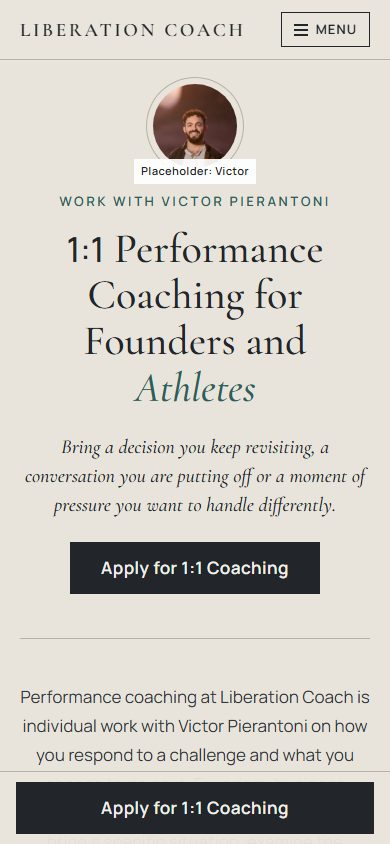
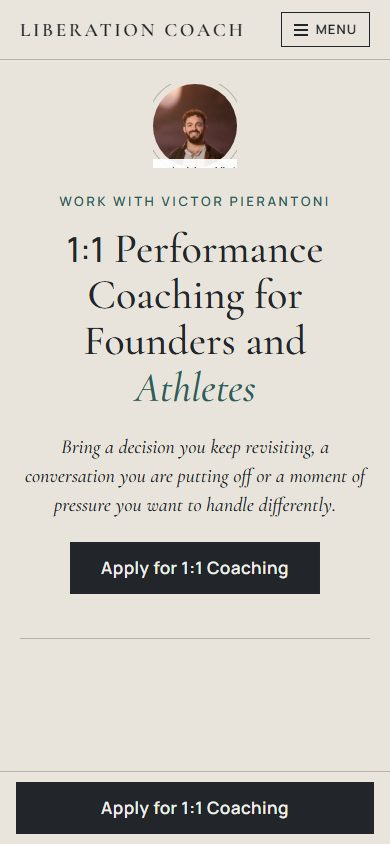
Add scroll-in animations, one motion style per option
- Option 1: photos wipe in, text eases up, rules draw
- Option 2: slow fades, portraits settle, timeline line draws, arch rises
- Option 3: quick slides from the sides, cards pop in sequence
- Hover touches (photo zoom, color on hover), header shadow on scroll
- Content shows without JavaScript, with reduced motion, and after 1.5s
  if the scroll observer never fires

Changed region(s): [[0.0308, 0.8009, 0.9538, 0.9242], [0.3385, 0.1848, 0.6769, 0.2156]]

diff --git a/option-2/index.html b/option-2/index.html
@@ -117,8 +117,20 @@ footer nav{display:flex;justify-content:center;flex-wrap:wrap;gap:12px 26px;marg
  .mbar{display:block;position:fixed;left:0;right:0;bottom:0;z-index:9;background:rgba(232,228,220,.97);border-top:1px solid var(--rule);padding:10px 16px}
  .mbar .btn{display:block;text-align:center}body{padding-bottom:76px}
 }
-@media (prefers-reduced-motion:reduce){*{transition:none!important;scroll-behavior:auto!important}}
-</style></head><body>
+/* motion: scroll reveals (only when JS runs; off for reduced motion) */
+body{overflow-x:clip}
+header{transition:box-shadow .3s}header.scrolled{box-shadow:0 8px 24px rgba(0,0,0,.10)}
+.js .rv{opacity:0;transform:translateY(var(--ty,26px));transition:opacity var(--dur,.8s) var(--ease,cubic-bezier(.2,.7,.2,1)),transform var(--dur,.8s) var(--ease,cubic-bezier(.2,.7,.2,1)),clip-path var(--dur,.8s) var(--ease,cubic-bezier(.2,.7,.2,1));transition-delay:var(--d,0s)}
+.js .rv-l{transform:translateX(-40px)}.js .rv-r{transform:translateX(40px)}
+.js .rv-zoom{transform:scale(.9)}.js .rv-line{transform:scaleX(0);transform-origin:left center}
+.js .rv-wipe{transform:none}.js .rv-wipe>img{clip-path:inset(0 100% 0 0);transition:clip-path 1.1s cubic-bezier(.65,0,.25,1) var(--d,0s)}.js .rv-wipe.on>img{clip-path:inset(0 0 0 0)}
+.js .rv.on{opacity:1;transform:none;clip-path:inset(0 0 0 0)}
+@media (max-width:860px){.js .rv-l,.js .rv-r{transform:translateY(22px)}}
+.js .timeline:before{transform:scaleX(0);transform-origin:left center;transition:transform 1.4s cubic-bezier(.2,.7,.2,1) .2s}.js .timeline.on:before{transform:none}
+.row img{transition:filter .8s}.row:hover img{filter:none}
+.final .in{--ty:60px}
+@media (prefers-reduced-motion:reduce){*{transition:none!important;scroll-behavior:auto!important}.js .rv{opacity:1!important;transform:none!important;clip-path:none!important}.js .rv-wipe>img{clip-path:none!important}.js .timeline:before{transform:none!important}.js .route img,.js .row img{transform:none!important}}
+</style><script>document.documentElement.className+=" js"</script></head><body>
 <a class="skip" href="#main">Skip to content</a>
 <header id="top">
  <div class="hd"><a class="mark" href="#" data-planned-page title="Page not designed yet">Liberation Coach</a>
@@ -181,7 +193,7 @@ footer nav{display:flex;justify-content:center;flex-wrap:wrap;gap:12px 26px;marg
 <section class="begin">
  <h2>A Conversation Is the Next Step</h2>
  <figure class="ph-wrap"><span class="phl">Placeholder stock photo</span><img class="toned" src="../assets/stock/video-call.jpg" alt="Man on a video call at his laptop" loading="lazy"></figure>
- <ol class="timeline">
+ <ol class="timeline rv-tl">
   <li><h3>Apply</h3><p>Describe what you would like to work on.</p></li>
   <li><h3>Meet Victor on Zoom</h3><p>The next step is a discovery call with Victor to explore fit. There is no obligation to proceed with coaching.</p></li>
   <li><h3>Decide Whether to Work Together</h3><p>If you choose to begin coaching, sessions take place online and coaching members receive Circle access.</p></li>
@@ -214,5 +226,13 @@ footer nav{display:flex;justify-content:center;flex-wrap:wrap;gap:12px 26px;marg
 b.addEventListener('click',function(){var o=h.classList.toggle('open');b.setAttribute('aria-expanded',o);b.setAttribute('aria-label',o?'Close menu':'Open menu')});
 h.querySelectorAll('.mobile-nav a').forEach(function(a){a.addEventListener('click',function(){h.classList.remove('open');b.setAttribute('aria-expanded','false')})});
 document.addEventListener('keydown',function(e){if(e.key==='Escape'&&h.classList.contains('open')){h.classList.remove('open');b.setAttribute('aria-expanded','false');b.focus()}})})();
+(function(){var cfg=[[".hero .portrait", "rv-zoom", 0, 0], [".hero > :not(.portrait)", "", 0.15, 0.14], [".intro p", "", 0, 0.15], [".row .ph-wrap", "", 0, 0], [".row > div", "", 0.2, 0], [".work > div", "rv-l", 0.1, 0], [".work .ph-wrap", "", 0, 0], [".meet .portrait", "rv-zoom", 0, 0], [".meet .in > :not(.portrait)", "", 0.1, 0.1], [".emo .card", "", 0, 0], [".begin h2", "", 0, 0], [".begin .ph-wrap", "", 0.1, 0], [".timeline li", "", 0.3, 0.25], [".begin > .qbtn", "", 0.6, 0], [".qa > div", "", 0, 0.15], [".answers .after", "", 0.3, 0], [".final .in", "", 0, 0]];var all=[];
+cfg.forEach(function(c){var els=document.querySelectorAll(c[0]);for(var i=0;i<els.length;i++){var e=els[i];e.className+=' rv '+c[1];e.style.setProperty('--d',((c[2]||0)+i*(c[3]||0)).toFixed(2)+'s');all.push(e)}});
+var tl=document.querySelectorAll('.rv-tl');for(var j=0;j<tl.length;j++)all.push(tl[j]);
+document.documentElement.style.setProperty('--dur','1.1s');
+if(!('IntersectionObserver' in window)){all.forEach(function(e){e.classList.add('on')});return}
+var io=new IntersectionObserver(function(es){es.forEach(function(x){if(x.isIntersecting){x.target.classList.add('on');io.unobserve(x.target)}})},{threshold:.12,rootMargin:'0px 0px -30px 0px'});
+all.forEach(function(e){io.observe(e)});setTimeout(function(){if(!document.querySelector('.rv.on'))all.forEach(function(e){e.classList.add('on')})},1500);
+var h=document.getElementById('top');function sc(){h.classList.toggle('scrolled',window.scrollY>8)}window.addEventListener('scroll',sc,{passive:true});sc()})();
 </script>
 </body></html>

diff --git a/option-1/index.html b/option-1/index.html
@@ -109,8 +109,19 @@ footer nav{display:flex;gap:18px;flex-wrap:wrap}footer nav a{color:#e4dfd5}
  .mbar{display:block;position:fixed;left:0;right:0;bottom:0;z-index:9;background:rgba(244,239,230,.97);border-top:1px solid var(--rule);padding:10px 16px}
  .mbar .btn{display:block;text-align:center}body{padding-bottom:76px}
 }
-@media (prefers-reduced-motion:reduce){*{transition:none!important;scroll-behavior:auto!important}}
-</style></head><body>
+/* motion: scroll reveals (only when JS runs; off for reduced motion) */
+body{overflow-x:clip}
+header{transition:box-shadow .3s}header.scrolled{box-shadow:0 8px 24px rgba(0,0,0,.10)}
+.js .rv{opacity:0;transform:translateY(var(--ty,26px));transition:opacity var(--dur,.8s) var(--ease,cubic-bezier(.2,.7,.2,1)),transform var(--dur,.8s) var(--ease,cubic-bezier(.2,.7,.2,1)),clip-path var(--dur,.8s) var(--ease,cubic-bezier(.2,.7,.2,1));transition-delay:var(--d,0s)}
+.js .rv-l{transform:translateX(-40px)}.js .rv-r{transform:translateX(40px)}
+.js .rv-zoom{transform:scale(.9)}.js .rv-line{transform:scaleX(0);transform-origin:left center}
+.js .rv-wipe{transform:none}.js .rv-wipe>img{clip-path:inset(0 100% 0 0);transition:clip-path 1.1s cubic-bezier(.65,0,.25,1) var(--d,0s)}.js .rv-wipe.on>img{clip-path:inset(0 0 0 0)}
+.js .rv.on{opacity:1;transform:none;clip-path:inset(0 0 0 0)}
+@media (max-width:860px){.js .rv-l,.js .rv-r{transform:translateY(22px)}}
+.route .ph-wrap{overflow:hidden}.route img{transition:transform .7s cubic-bezier(.2,.7,.2,1)}.route:hover img{transform:scale(1.04)}
+.js .rv-zoom{transform:scale(.97)}
+@media (prefers-reduced-motion:reduce){*{transition:none!important;scroll-behavior:auto!important}.js .rv{opacity:1!important;transform:none!important;clip-path:none!important}.js .rv-wipe>img{clip-path:none!important}.js .timeline:before{transform:none!important}.js .route img,.js .row img{transform:none!important}}
+</style><script>document.documentElement.className+=" js"</script></head><body>
 <a class="skip" href="#main">Skip to content</a>
 <header id="top">
  <div class="hd"><a class="mark" href="#" data-planned-page title="Page not designed yet">Liberation <em>Coach</em></a>
@@ -210,5 +221,13 @@ footer nav{display:flex;gap:18px;flex-wrap:wrap}footer nav a{color:#e4dfd5}
 b.addEventListener('click',function(){var o=h.classList.toggle('open');b.setAttribute('aria-expanded',o);b.setAttribute('aria-label',o?'Close menu':'Open menu')});
 h.querySelectorAll('.mobile-nav a').forEach(function(a){a.addEventListener('click',function(){h.classList.remove('open');b.setAttribute('aria-expanded','false')})});
 document.addEventListener('keydown',function(e){if(e.key==='Escape'&&h.classList.contains('open')){h.classList.remove('open');b.setAttribute('aria-expanded','false');b.focus()}})})();
+(function(){var cfg=[[".hero > div > *", "", 0, 0.12], [".portrait", "rv-wipe", 0.25, 0], [".intro .lead", "", 0, 0], [".intro .fact", "rv-r", 0.15, 0], [".route .ph-wrap", "rv-wipe", 0, 0.18], [".route h3, .route p, .route .qbtn", "", 0.15, 0.06], [".work .ph-wrap", "rv-wipe", 0, 0], [".work h2", "", 0.1, 0], [".work .cols > div", "", 0.2, 0], [".meet .ph-wrap", "rv-wipe", 0, 0], [".meet .in > div > *", "", 0.1, 0.1], [".emo .rule", "rv-line", 0, 0], [".emo h2, .emo p, .emo .qbtn", "", 0.1, 0.12], [".begin h2", "", 0, 0], [".begin .ph-wrap", "rv-wipe", 0.1, 0], [".steps li", "", 0.1, 0.14], [".begin .qbtn", "", 0.4, 0], [".answers > div", "", 0, 0.12], [".after", "", 0.2, 0], [".final .in", "rv-zoom", 0, 0]];var all=[];
+cfg.forEach(function(c){var els=document.querySelectorAll(c[0]);for(var i=0;i<els.length;i++){var e=els[i];e.className+=' rv '+c[1];e.style.setProperty('--d',((c[2]||0)+i*(c[3]||0)).toFixed(2)+'s');all.push(e)}});
+var tl=document.querySelectorAll('.rv-tl');for(var j=0;j<tl.length;j++)all.push(tl[j]);
+document.documentElement.style.setProperty('--dur','.85s');
+if(!('IntersectionObserver' in window)){all.forEach(function(e){e.classList.add('on')});return}
+var io=new IntersectionObserver(function(es){es.forEach(function(x){if(x.isIntersecting){x.target.classList.add('on');io.unobserve(x.target)}})},{threshold:.12,rootMargin:'0px 0px -30px 0px'});
+all.forEach(function(e){io.observe(e)});setTimeout(function(){if(!document.querySelector('.rv.on'))all.forEach(function(e){e.classList.add('on')})},1500);
+var h=document.getElementById('top');function sc(){h.classList.toggle('scrolled',window.scrollY>8)}window.addEventListener('scroll',sc,{passive:true});sc()})();
 </script>
 </body></html>

diff --git a/option-3/index.html b/option-3/index.html
@@ -114,8 +114,19 @@ footer nav{display:flex;gap:18px;flex-wrap:wrap}footer nav a{color:var(--body)}
  .mbar{display:block;position:fixed;left:0;right:0;bottom:0;z-index:9;background:rgba(15,26,43,.97);border-top:1px solid var(--line);padding:10px 16px}
  .mbar .btn{display:block;text-align:center}body{padding-bottom:76px}
 }
-@media (prefers-reduced-motion:reduce){*{transition:none!important;scroll-behavior:auto!important}}
-</style></head><body>
+/* motion: scroll reveals (only when JS runs; off for reduced motion) */
+body{overflow-x:clip}
+header{transition:box-shadow .3s}header.scrolled{box-shadow:0 8px 24px rgba(0,0,0,.10)}
+.js .rv{opacity:0;transform:translateY(var(--ty,26px));transition:opacity var(--dur,.8s) var(--ease,cubic-bezier(.2,.7,.2,1)),transform var(--dur,.8s) var(--ease,cubic-bezier(.2,.7,.2,1)),clip-path var(--dur,.8s) var(--ease,cubic-bezier(.2,.7,.2,1));transition-delay:var(--d,0s)}
+.js .rv-l{transform:translateX(-40px)}.js .rv-r{transform:translateX(40px)}
+.js .rv-zoom{transform:scale(.9)}.js .rv-line{transform:scaleX(0);transform-origin:left center}
+.js .rv-wipe{transform:none}.js .rv-wipe>img{clip-path:inset(0 100% 0 0);transition:clip-path 1.1s cubic-bezier(.65,0,.25,1) var(--d,0s)}.js .rv-wipe.on>img{clip-path:inset(0 0 0 0)}
+.js .rv.on{opacity:1;transform:none;clip-path:inset(0 0 0 0)}
+@media (max-width:860px){.js .rv-l,.js .rv-r{transform:translateY(22px)}}
+.steps li:hover,.qa div:hover{background:var(--navy3)}
+.js .rv-zoom{transform:scale(.94) translateY(16px)}
+@media (prefers-reduced-motion:reduce){*{transition:none!important;scroll-behavior:auto!important}.js .rv{opacity:1!important;transform:none!important;clip-path:none!important}.js .rv-wipe>img{clip-path:none!important}.js .timeline:before{transform:none!important}.js .route img,.js .row img{transform:none!important}}
+</style><script>document.documentElement.className+=" js"</script></head><body>
 <a class="skip" href="#main">Skip to content</a>
 <header id="top">
  <div class="hd"><a class="mark wide caps" href="#" data-planned-page title="Page not designed yet">Liberation <b>Coach</b></a>
@@ -209,5 +220,13 @@ footer nav{display:flex;gap:18px;flex-wrap:wrap}footer nav a{color:var(--body)}
 b.addEventListener('click',function(){var o=h.classList.toggle('open');b.setAttribute('aria-expanded',o);b.setAttribute('aria-label',o?'Close menu':'Open menu')});
 h.querySelectorAll('.mobile-nav a').forEach(function(a){a.addEventListener('click',function(){h.classList.remove('open');b.setAttribute('aria-expanded','false')})});
 document.addEventListener('keydown',function(e){if(e.key==='Escape'&&h.classList.contains('open')){h.classList.remove('open');b.setAttribute('aria-expanded','false');b.focus()}})})();
+(function(){var cfg=[[".top .ph-wrap", "rv-l", 0, 0], [".top > div > *", "rv-r", 0.08, 0.1], [".intro p", "", 0, 0], [".facts li", "", 0.1, 0.12], [".side.f > :not(.phl)", "rv-l", 0, 0.08], [".side.a > :not(.phl)", "rv-r", 0.1, 0.08], [".work .in > div > *", "rv-l", 0, 0.08], [".work .ph-wrap", "rv-r", 0.1, 0], [".meet .in > div > *", "rv-l", 0, 0.08], [".meet .ph-wrap", "rv-r", 0.1, 0], [".emo .bar", "rv-line", 0, 0], [".emo .txt > :not(.bar)", "rv-l", 0.1, 0.08], [".emo .ph-wrap", "rv-wipe", 0, 0], [".begin h2", "rv-l", 0, 0], [".steps li", "rv-zoom", 0.1, 0.12], [".begin .in > .qbtn", "", 0.4, 0], [".qa > div", "rv-zoom", 0, 0.12], [".answers .in > .qbtn", "", 0.3, 0], [".final h2", "rv-l", 0, 0], [".final .in > div", "rv-r", 0.12, 0]];var all=[];
+cfg.forEach(function(c){var els=document.querySelectorAll(c[0]);for(var i=0;i<els.length;i++){var e=els[i];e.className+=' rv '+c[1];e.style.setProperty('--d',((c[2]||0)+i*(c[3]||0)).toFixed(2)+'s');all.push(e)}});
+var tl=document.querySelectorAll('.rv-tl');for(var j=0;j<tl.length;j++)all.push(tl[j]);
+document.documentElement.style.setProperty('--dur','.6s');
+if(!('IntersectionObserver' in window)){all.forEach(function(e){e.classList.add('on')});return}
+var io=new IntersectionObserver(function(es){es.forEach(function(x){if(x.isIntersecting){x.target.classList.add('on');io.unobserve(x.target)}})},{threshold:.12,rootMargin:'0px 0px -30px 0px'});
+all.forEach(function(e){io.observe(e)});setTimeout(function(){if(!document.querySelector('.rv.on'))all.forEach(function(e){e.classList.add('on')})},1500);
+var h=document.getElementById('top');function sc(){h.classList.toggle('scrolled',window.scrollY>8)}window.addEventListener('scroll',sc,{passive:true});sc()})();
 </script>
 </body></html>
